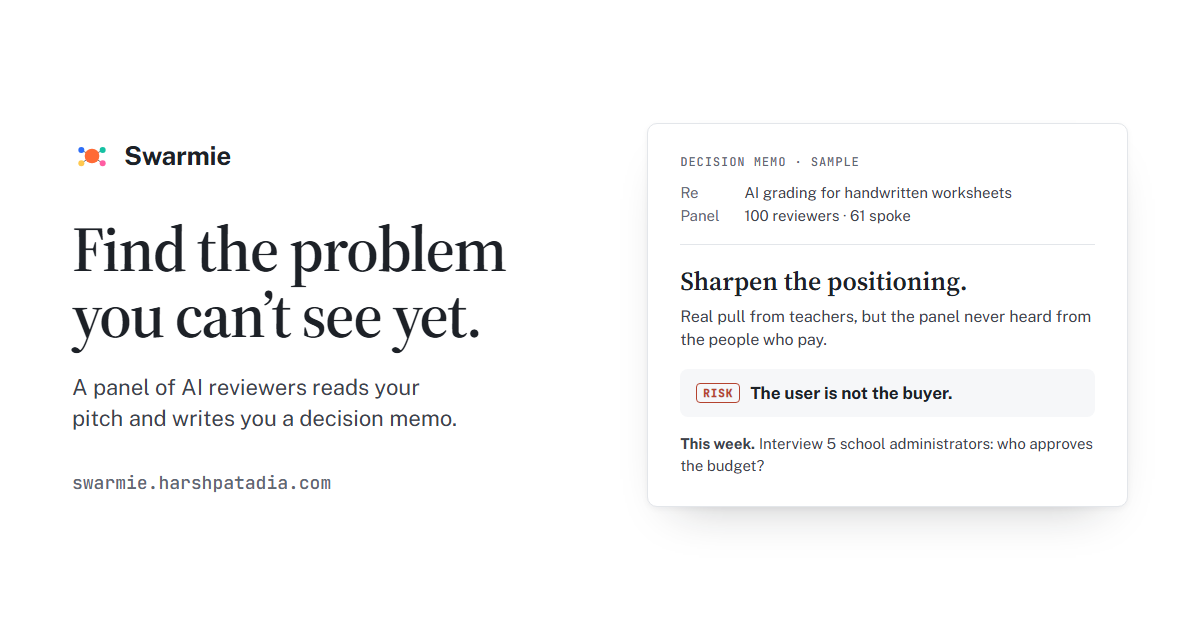
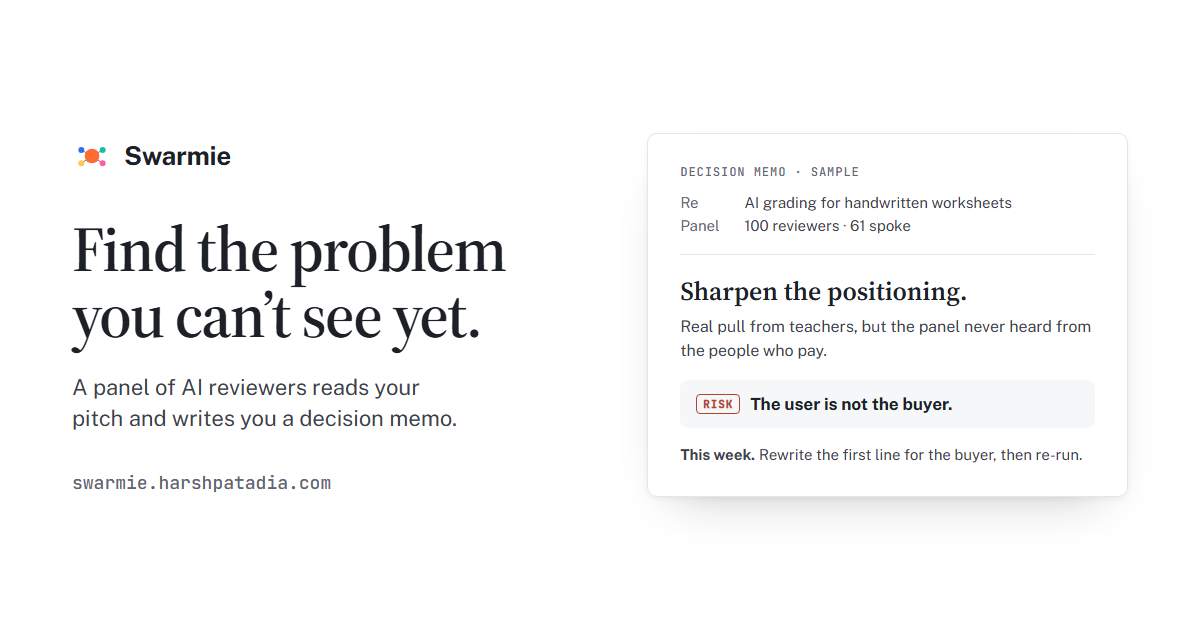
fix(memo): next steps are changes to make, not 'interview users'; fix grey gap
The validate memo told founders to interview users before writing code,
which is the work Swarmie exists to save. The reporter prompt now states
that rule explicitly: next_action, path forward, per-objection tests and
risk tests must be changes the founder can make today and check by
re-running Swarmie; only questions that need real buyers (will they pay)
get one specific cheap real-world check (landing-page price, pre-sale).
The interview-flavoured fallback next actions are rewritten to match.
UI: objection tag 'ask 5 users' -> 'test it', 'Copy question' -> 'Copy';
home sample memo and og-image updated.

Grey square: evidence panels sat on the board grid, so a row with two of
three panels exposed the rule-coloured background. They now live in a
wrapping full-width row that always fills its width.

Claude-Session: https://claude.ai/code/session_01U4FAaYHGpBBEYHJb2hDoRc

diff --git a/frontend/src/components/swarm/DecisionMemo.vue b/frontend/src/components/swarm/DecisionMemo.vue
@@ -66,36 +66,38 @@
         <ObjectionList :objections="report.top_objections" :copy="copy" :job-id="jobId" />
       </section>
 
-      <figure class="cell cell-ex">
-        <figcaption>How the {{ spokeCount }} who spoke felt</figcaption>
-        <div class="sent" role="img" :aria-label="sentimentAria">
-          <span v-for="k in SENT" :key="k" class="sent-seg" :class="k" :style="{ flexGrow: report.sentiment_split[k] || 0 }"></span>
-        </div>
-        <ul class="sent-key">
-          <li v-for="k in SENT" :key="k"><span class="dot" :class="k"></span>{{ capitalize(k) }} <b>{{ report.sentiment_split[k] }}%</b></li>
-        </ul>
-      </figure>
+      <div class="cell-row">
+        <figure class="cell-ex">
+          <figcaption>How the {{ spokeCount }} who spoke felt</figcaption>
+          <div class="sent" role="img" :aria-label="sentimentAria">
+            <span v-for="k in SENT" :key="k" class="sent-seg" :class="k" :style="{ flexGrow: report.sentiment_split[k] || 0 }"></span>
+          </div>
+          <ul class="sent-key">
+            <li v-for="k in SENT" :key="k"><span class="dot" :class="k"></span>{{ capitalize(k) }} <b>{{ report.sentiment_split[k] }}%</b></li>
+          </ul>
+        </figure>
 
-      <figure v-if="report.ignore_reasons?.length" class="cell cell-ex">
-        <figcaption>{{ capitalize(copy.silence(Math.round(report.silent_share_pct || 0))) }}</figcaption>
-        <ul class="bars">
-          <li v-for="ir in report.ignore_reasons" :key="ir.category">
-            <div class="bar-row"><span>{{ ir.label }}</span><b>{{ ir.share_pct }}%</b></div>
-            <span class="bar" :style="{ '--w': `${ir.share_pct}%` }"></span>
-            <p v-if="ir.implication || ir.example" class="bar-note">{{ ir.implication || ir.example }}</p>
-          </li>
-        </ul>
-      </figure>
+        <figure v-if="report.ignore_reasons?.length" class="cell-ex">
+          <figcaption>{{ capitalize(copy.silence(Math.round(report.silent_share_pct || 0))) }}</figcaption>
+          <ul class="bars">
+            <li v-for="ir in report.ignore_reasons" :key="ir.category">
+              <div class="bar-row"><span>{{ ir.label }}</span><b>{{ ir.share_pct }}%</b></div>
+              <span class="bar" :style="{ '--w': `${ir.share_pct}%` }"></span>
+              <p v-if="ir.implication || ir.example" class="bar-note">{{ ir.implication || ir.example }}</p>
+            </li>
+          </ul>
+        </figure>
 
-      <figure v-if="segments.length" class="cell cell-ex">
-        <figcaption>{{ capitalize(copy.segments) }}</figcaption>
-        <ul class="bars">
-          <li v-for="s in segments" :key="s.name">
-            <div class="bar-row"><span>{{ capitalize(s.name) }}</span><b>{{ s.count ?? '' }}</b></div>
-            <span class="bar is-muted" :style="{ '--w': `${segShare(s.count)}%` }"></span>
-          </li>
-        </ul>
-      </figure>
+        <figure v-if="segments.length" class="cell-ex">
+          <figcaption>{{ capitalize(copy.segments) }}</figcaption>
+          <ul class="bars">
+            <li v-for="s in segments" :key="s.name">
+              <div class="bar-row"><span>{{ capitalize(s.name) }}</span><b>{{ s.count ?? '' }}</b></div>
+              <span class="bar is-muted" :style="{ '--w': `${segShare(s.count)}%` }"></span>
+            </li>
+          </ul>
+        </figure>
+      </div>
 
       <figure v-if="voices.length" class="cell cell-voices">
         <figcaption>{{ capitalize(copy.voices) }}</figcaption>
@@ -239,7 +241,11 @@ async function copyAnchor(id) {
 .cell-act { grid-column: span 5; background: var(--paper-2); display: flex; flex-direction: column; gap: var(--space-5); padding: var(--space-7) var(--space-6); }
 .cell-risks { grid-column: 1 / -1; }
 .cell-objections { grid-column: 1 / -1; }
-.cell-ex { grid-column: span 4; }
+/* Evidence row: its own sub-grid so two or three panels always fill the width
+   (an empty board slot would show the rule colour as a grey block). */
+.cell-row { grid-column: 1 / -1; display: flex; flex-wrap: wrap; gap: 1px; }
+.cell-ex { flex: 1 1 260px; margin: 0; background: var(--paper); padding: var(--space-6); min-width: 0; }
+.cell-ex figcaption { margin: 0 0 var(--space-4); font-size: var(--text-base); font-weight: 700; letter-spacing: -0.005em; }
 .cell-voices { grid-column: 1 / -1; }
 
 /* Recommendation */
@@ -353,13 +359,12 @@ async function copyAnchor(id) {
 
 @media (max-width: 1099px) {
   .cell-rec, .cell-act { grid-column: 1 / -1; }
-  .cell-ex { grid-column: span 6; }
-  .cell-ex:last-of-type:nth-of-type(odd) { grid-column: 1 / -1; }
 }
 @media (max-width: 767px) {
   .memo { padding: var(--space-5) var(--space-4) var(--space-7); }
   .board { grid-template-columns: minmax(0, 1fr); }
   .cell, .cell-rec, .cell-act { grid-column: 1 / -1; padding: var(--space-5) var(--space-4); }
+  .cell-ex { padding: var(--space-5) var(--space-4); }
   .memo-head { gap: var(--space-2); }
 }
 </style>

diff --git a/frontend/src/views/Home.vue b/frontend/src/views/Home.vue
@@ -47,7 +47,7 @@
               <p class="s-title"><span class="s-flag">Risk</span>The user is not the buyer.</p>
               <p class="s-line"><strong>Easy to miss because</strong> every positive reaction came from teachers; administrators were 4 of 100 reviewers.</p>
             </div>
-            <p class="s-action"><strong>This week.</strong> Interview 5 school administrators: who approves a grading tool, and from which budget?</p>
+            <p class="s-action"><strong>This week.</strong> Rewrite the first line for the buyer (admins, not teachers), name the budget it comes from, and re-run.</p>
           </div>
         </figure>
       </section>

diff --git a/frontend/src/components/swarm/ObjectionList.vue b/frontend/src/components/swarm/ObjectionList.vue
@@ -14,7 +14,7 @@
             <dd>
               <span class="obj-test-text">{{ obj.real_test }}</span>
               <button class="obj-test-q" type="button" @click="copyTest(obj)">
-                {{ copiedTest === obj.category ? 'Copied' : 'Copy question' }}
+                {{ copiedTest === obj.category ? 'Copied' : 'Copy' }}
               </button>
             </dd>
           </div>

diff --git a/frontend/src/views/swarm/Result.vue b/frontend/src/views/swarm/Result.vue
@@ -563,7 +563,7 @@ const COPY = {
     segments: 'segments',
     agents: 'agents',
     silence: (pct) => `why ${pct}% scrolled past`,
-    askTag: 'ask 5 users',
+    askTag: 'test it',
     killTag: 'drop it if',
   },
   investor: {

diff --git a/backend/app/services/swarm/roast_reporter.py b/backend/app/services/swarm/roast_reporter.py
@@ -36,7 +36,7 @@ class RoastReport:
     # --- decision brief fields (additive) ---
     verdict: str = "sharpen_positioning"  # "ship_it" | "sharpen_positioning" | "wrong_audience" | "kill"
     verdict_reason: str = ""  # one blunt line < 120 chars
-    next_action: str = ""  # single most important move before writing more code, < 160 chars
+    next_action: str = ""  # single most important change to make today, < 160 chars
     confidence: str = "low"  # "low" | "med" | "high"
     confidence_reason: str = ""  # one line
     # --- silence signal (workstream B): why agents scrolled past ---
@@ -113,13 +113,24 @@ Decision brief rules:
   * wrong_audience: the swarm engaged but the ICP clearly doesn't match the pitch
   * kill: fundamental demand problem, rethink the problem/solution entirely
 - verdict_reason: one blunt line under 120 chars — the single decisive factor
-- next_action: the single most important move before writing more code, under 160 chars
+Swarmie's panel exists so the founder does not have to start with interviews. Never tell
+them to interview users, run customer discovery, or 'talk to customers' before building.
+Every next step is something they can change today (a line of the pitch, the price, the
+target segment, the scope) and check by re-running Swarmie on the revised pitch. Only when
+the answer needs real buyers (will they pay, will they switch) name ONE specific, cheap
+real-world check: a price on a landing page, a pre-sale, a single message to a named group.
+
+- next_action: the single most important change to make now, stated as an instruction the
+  founder can act on today (e.g. a rewritten first line, a price to try, a segment to lead
+  with), under 160 chars
 - confidence: "low" | "med" | "high" — how much weight to put on this signal
 - confidence_reason: one line (e.g. "only 14 agents spoke; sentiment split")
 - objections_enriched: for each top objection, provide:
   * category: exact category string from top_objections
-  * real_test: exact question to ask 5 real users, under 160 chars
-  * kill_criteria: "if N/5 say X, this positioning is dead", under 160 chars
+  * real_test: the fastest way to settle this objection: the change to make and re-run, or one
+    specific real-world check (see above), under 160 chars
+  * kill_criteria: the result that means dropping this angle, e.g. "if price still tops the
+    objections after the reprice, drop the $49 tier", under 160 chars
   * suggested_fix: concrete messaging/positioning fix, under 160 chars"""
 
 
@@ -565,13 +576,14 @@ class RoastReporter:
                     "  messaging_gaps    (array of 2-4 short strings — concrete things to fix)\n"
                     f"  verdict           (string, one of: {self.VERDICT_ENUM_HINT})\n"
                     "  verdict_reason    (string, <120 chars, one blunt line — the decisive factor)\n"
-                    "  next_action       (string, <160 chars, single most important move before more code)\n"
+                    "  next_action       (string, <160 chars, the single most important change to make today;\n"
+                    "                     never 'interview users' (see the rule in the system prompt))\n"
                     f"  confidence        (string, one of: low | med | high — MUST NOT exceed ceiling '{confidence_ceiling}')\n"
                     "  confidence_reason (string, one line — e.g. 'only 14 agents spoke; sentiment split')\n"
                     "  objections_enriched (array of objects, one per top objection, with keys:\n"
                     "    category (string, exact match to top_objections category),\n"
-                    "    real_test (string, <160 chars, exact question to ask 5 real users),\n"
-                    "    kill_criteria (string, <160 chars, e.g. 'if 3/5 say X, this positioning is dead'),\n"
+                    "    real_test (string, <160 chars, the change to make and re-run, or one specific real-world check),\n"
+                    "    kill_criteria (string, <160 chars, the result that means dropping this angle),\n"
                     "    suggested_fix (string, <160 chars, concrete messaging/positioning fix)\n"
                     "  )\n"
                     "  what_working      (array of 1-3 strings, <140 chars each — real strengths backed by\n"
@@ -585,7 +597,8 @@ class RoastReporter:
                     "                     dependency on a platform. Do NOT repeat top objections. Keys:\n"
                     "    risk (string, <140 chars),\n"
                     "    why_non_obvious (string, <160 chars — why it is easy to miss from this pitch/data),\n"
-                    "    cheap_test (string, <160 chars — how to check it in days, without building)\n"
+                    "    cheap_test (string, <160 chars — how to check it this week without building: a re-run\n"
+                    "                with a changed pitch, a landing-page or pre-sale test; not interviews)\n"
                     "  )\n"
                     "  path_forward      (object — a realistic plan, with keys:\n"
                     "    this_week (string, <160 chars — the concrete first step, usually the next_action),\n"
@@ -739,8 +752,8 @@ class RoastReporter:
     def _fallback_next_action(top_objections: list[dict[str, Any]]) -> str:
         if top_objections:
             top_cat = top_objections[0]["category"]
-            return f"Interview 5 target users specifically about '{top_cat}' before writing more code."[:160]
-        return "Run 5 customer discovery interviews to validate the core problem before any new features."[:160]
+            return f"Rewrite the pitch to answer '{top_cat}' in its first line, then re-run to see if it drops."[:160]
+        return "Sharpen the first line to name who has the problem and what it costs them, then re-run."[:160]
 
 
 # --- Investor swarm reporter ---
